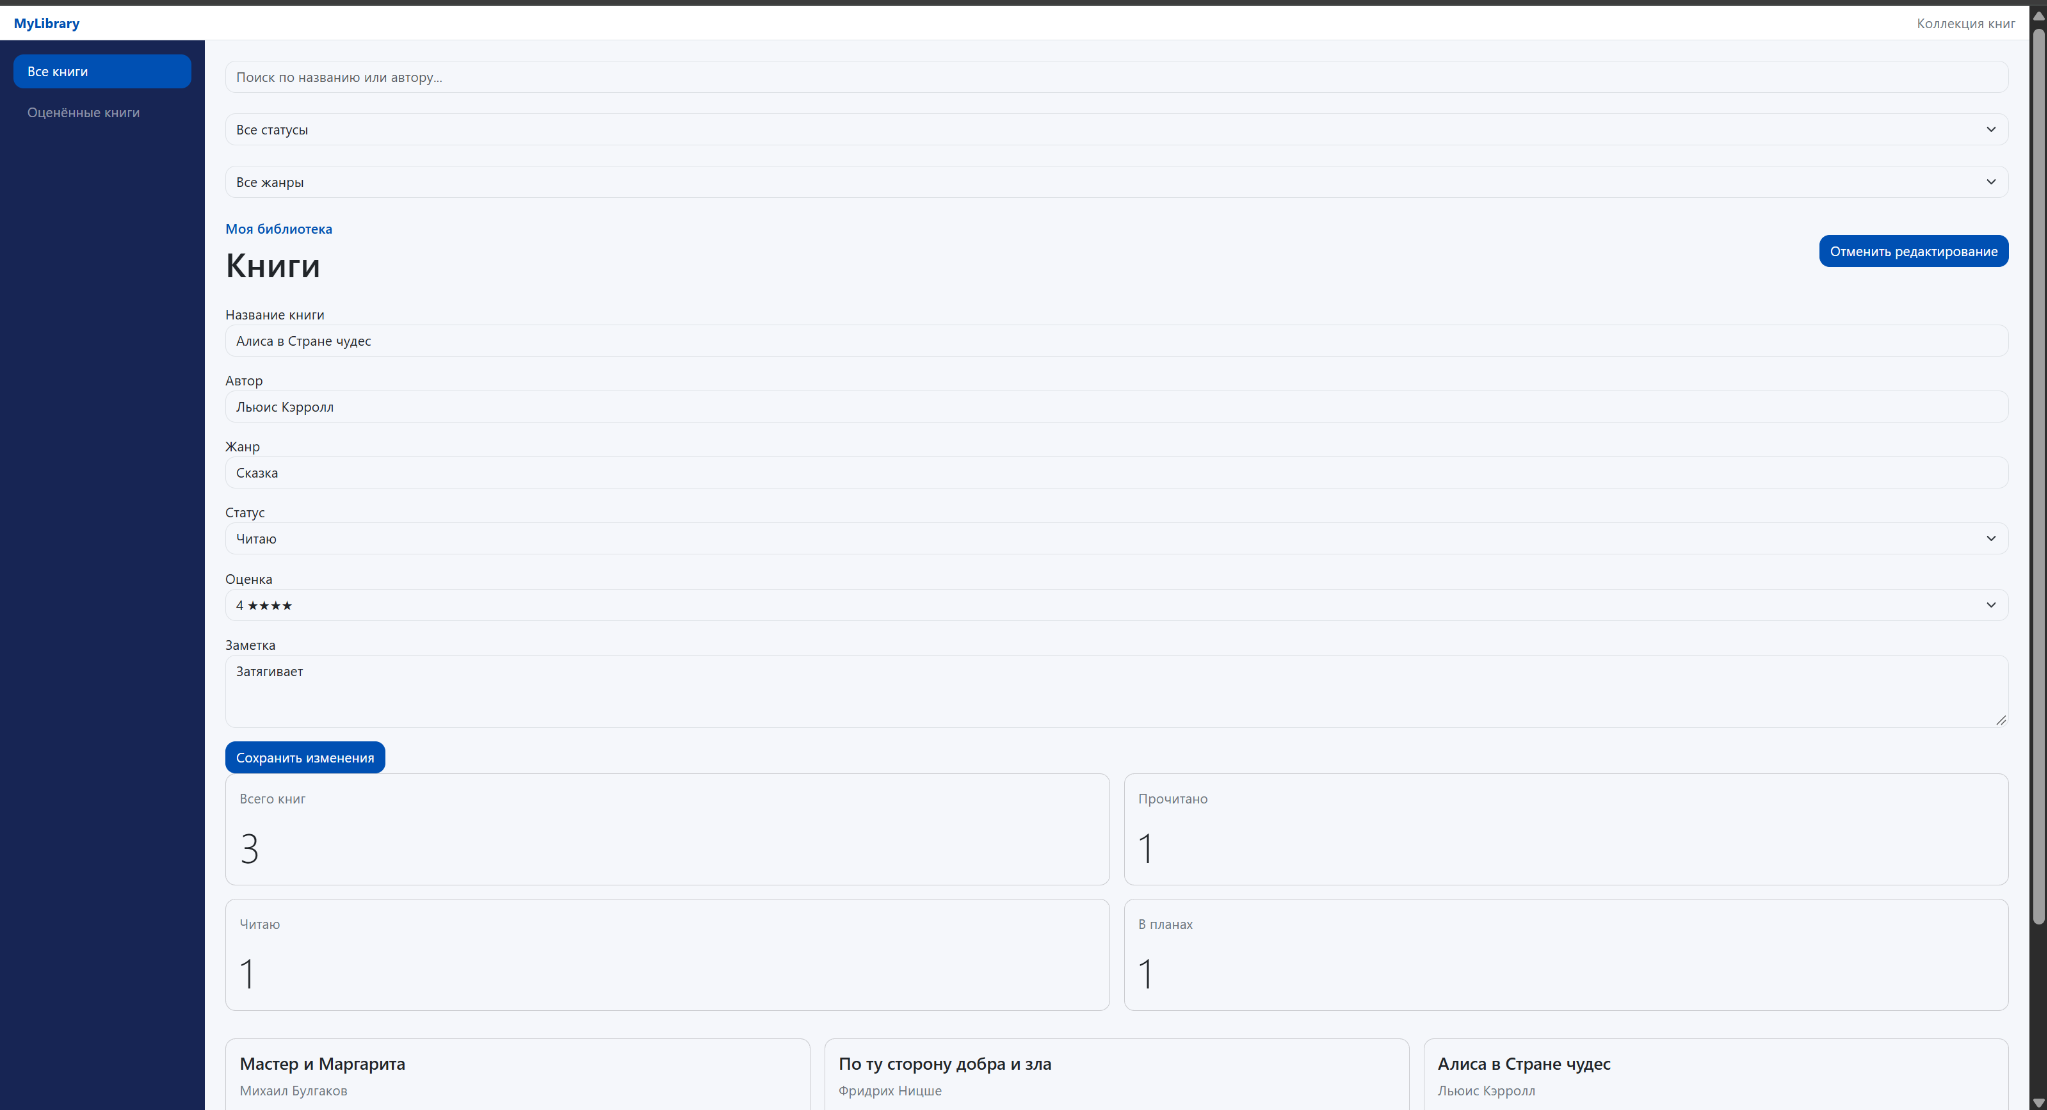
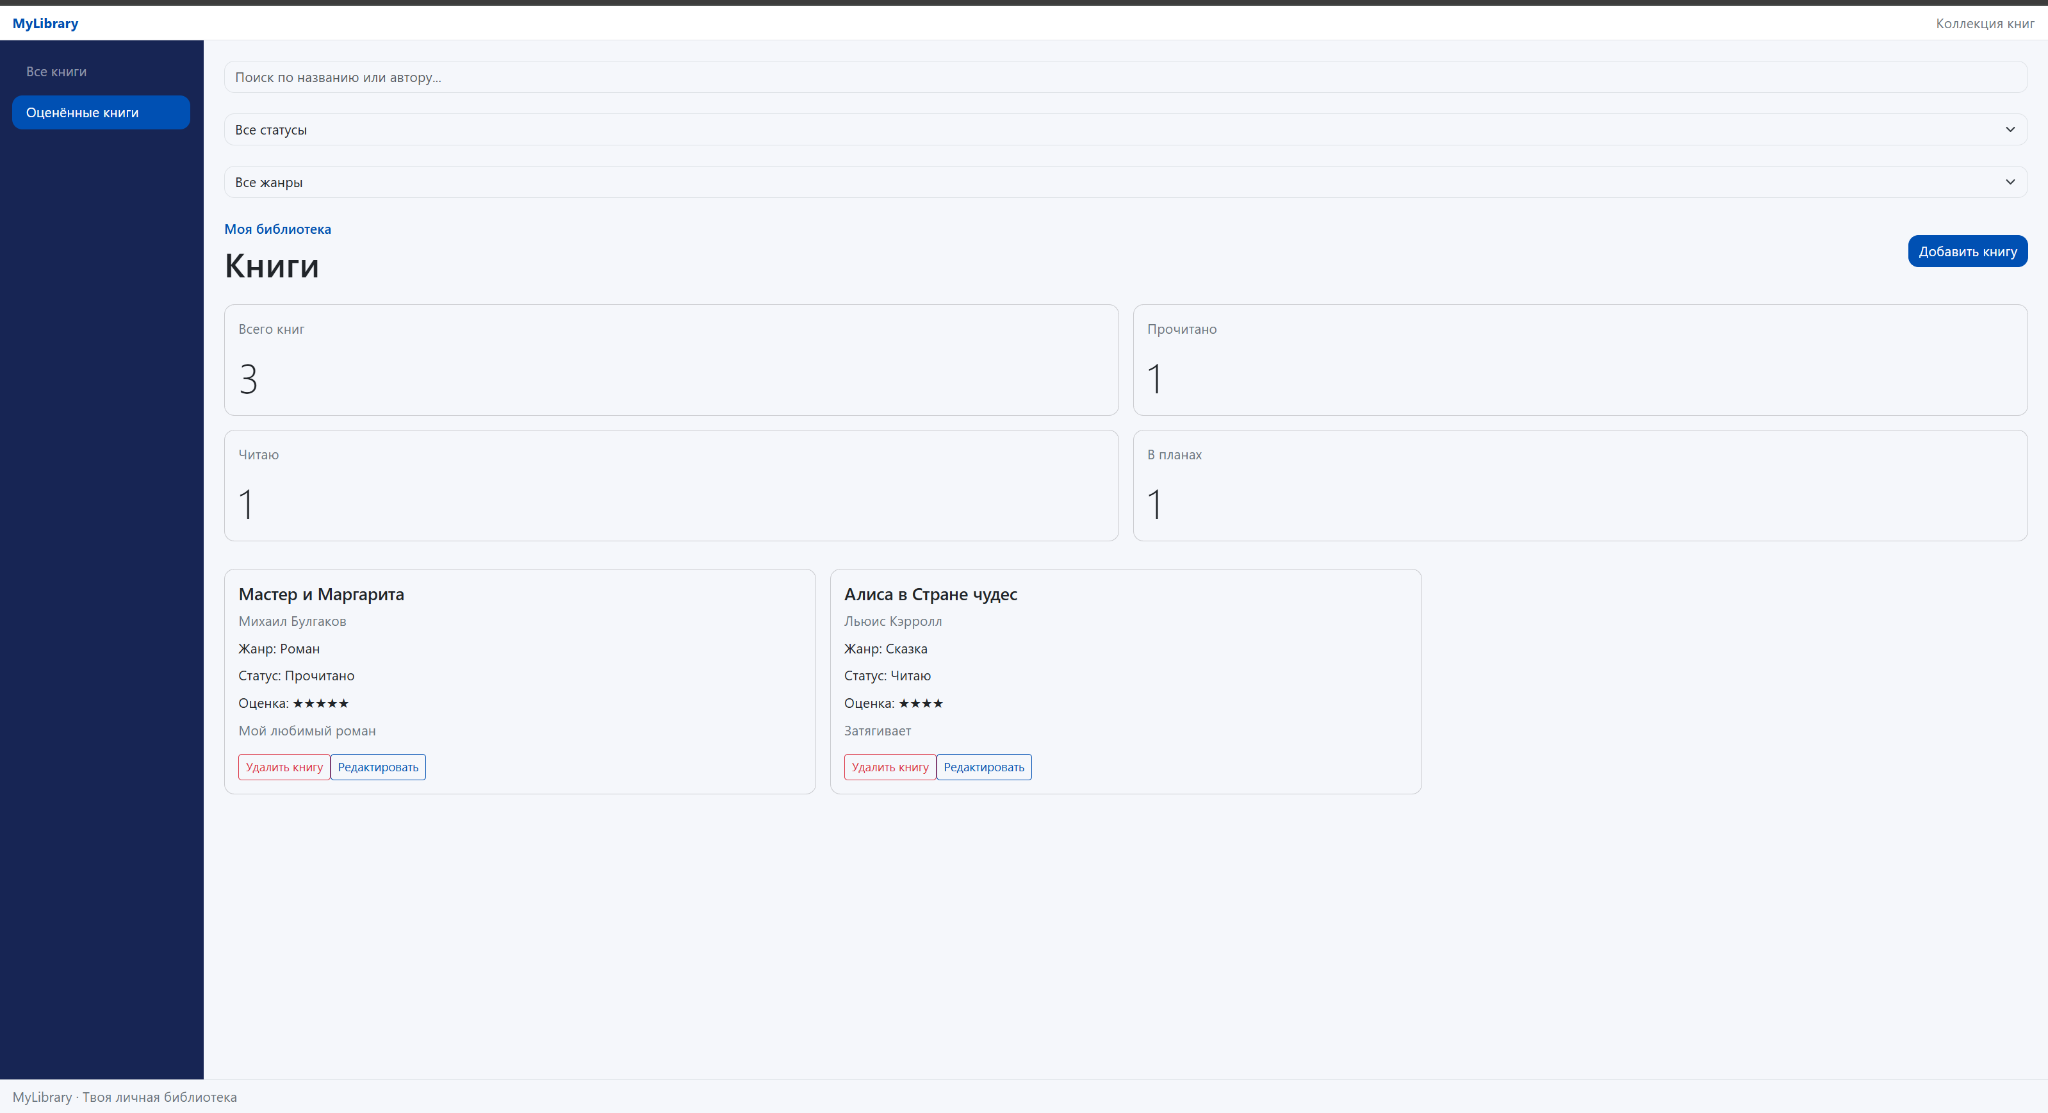
fix demo screenshots

diff --git a/README.md b/README.md
@@ -65,7 +65,7 @@ npm run dev
 ![alt text](screenshots/image-3.png) 
 
 5. Попробовали в сайдбаре нажать на "Оценённые книги" и увидели, что у нас теперь две оценённые книги.
-![alt text](screenshots/image-4.png)
+![alt text](image.png)
 
 6. Пробуем в поиске найти книгу Пушкина(но у нас такой нет), поддержка пустого состояния(при помощи условного рендеринга)
 ![alt text](screenshots/image-5.png)
